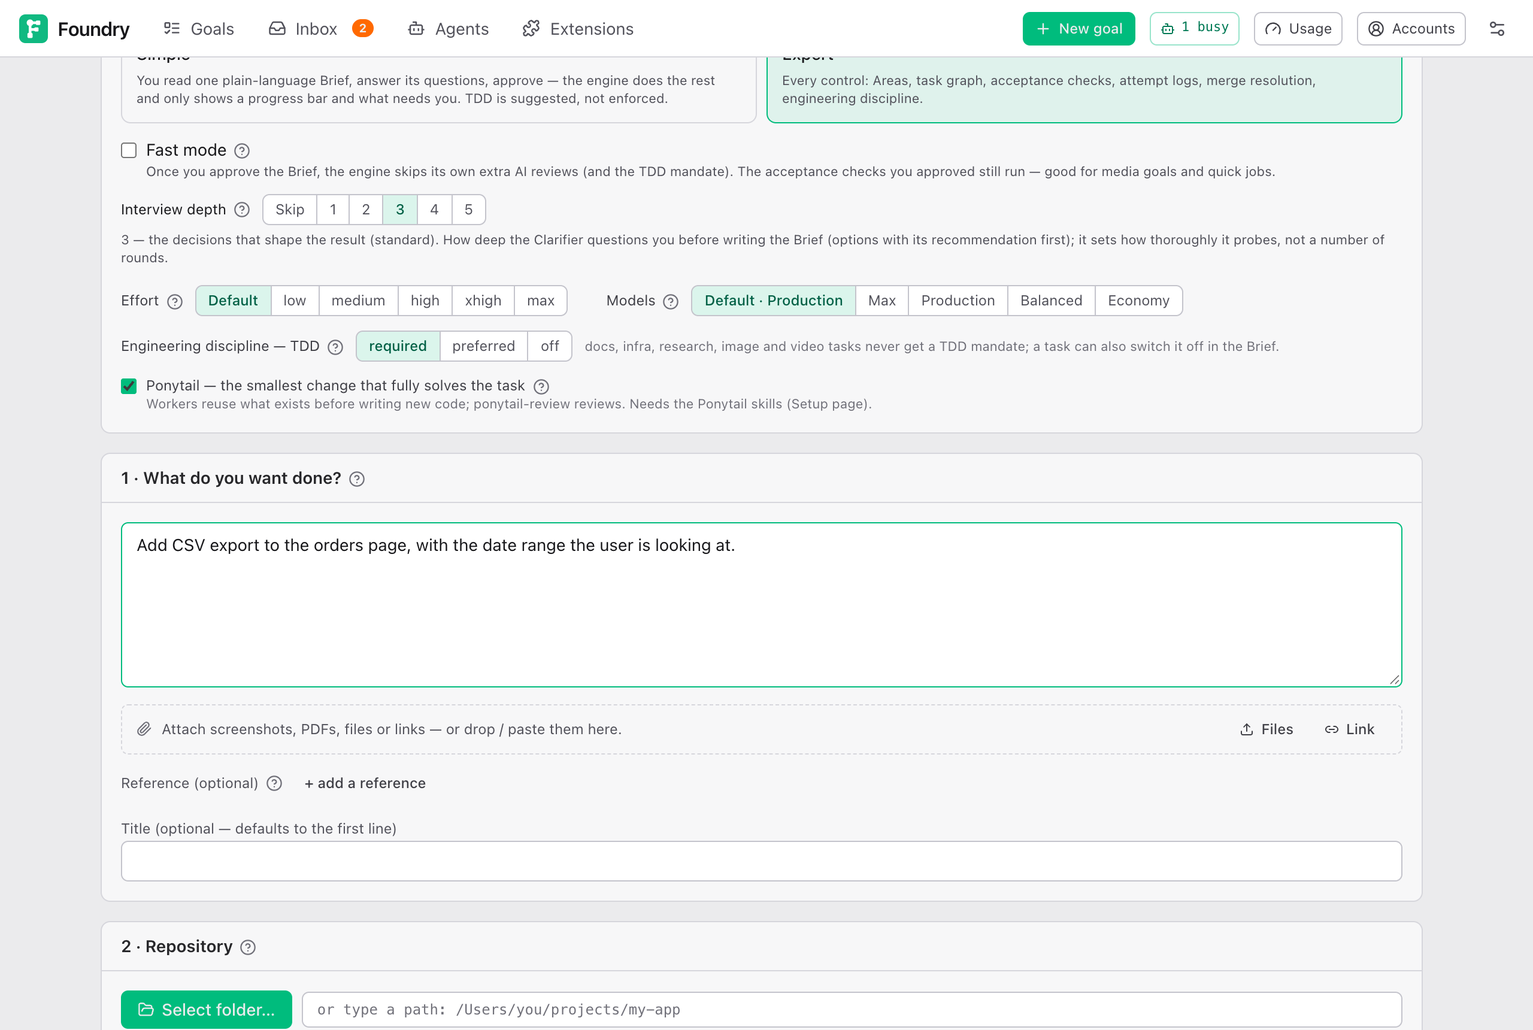
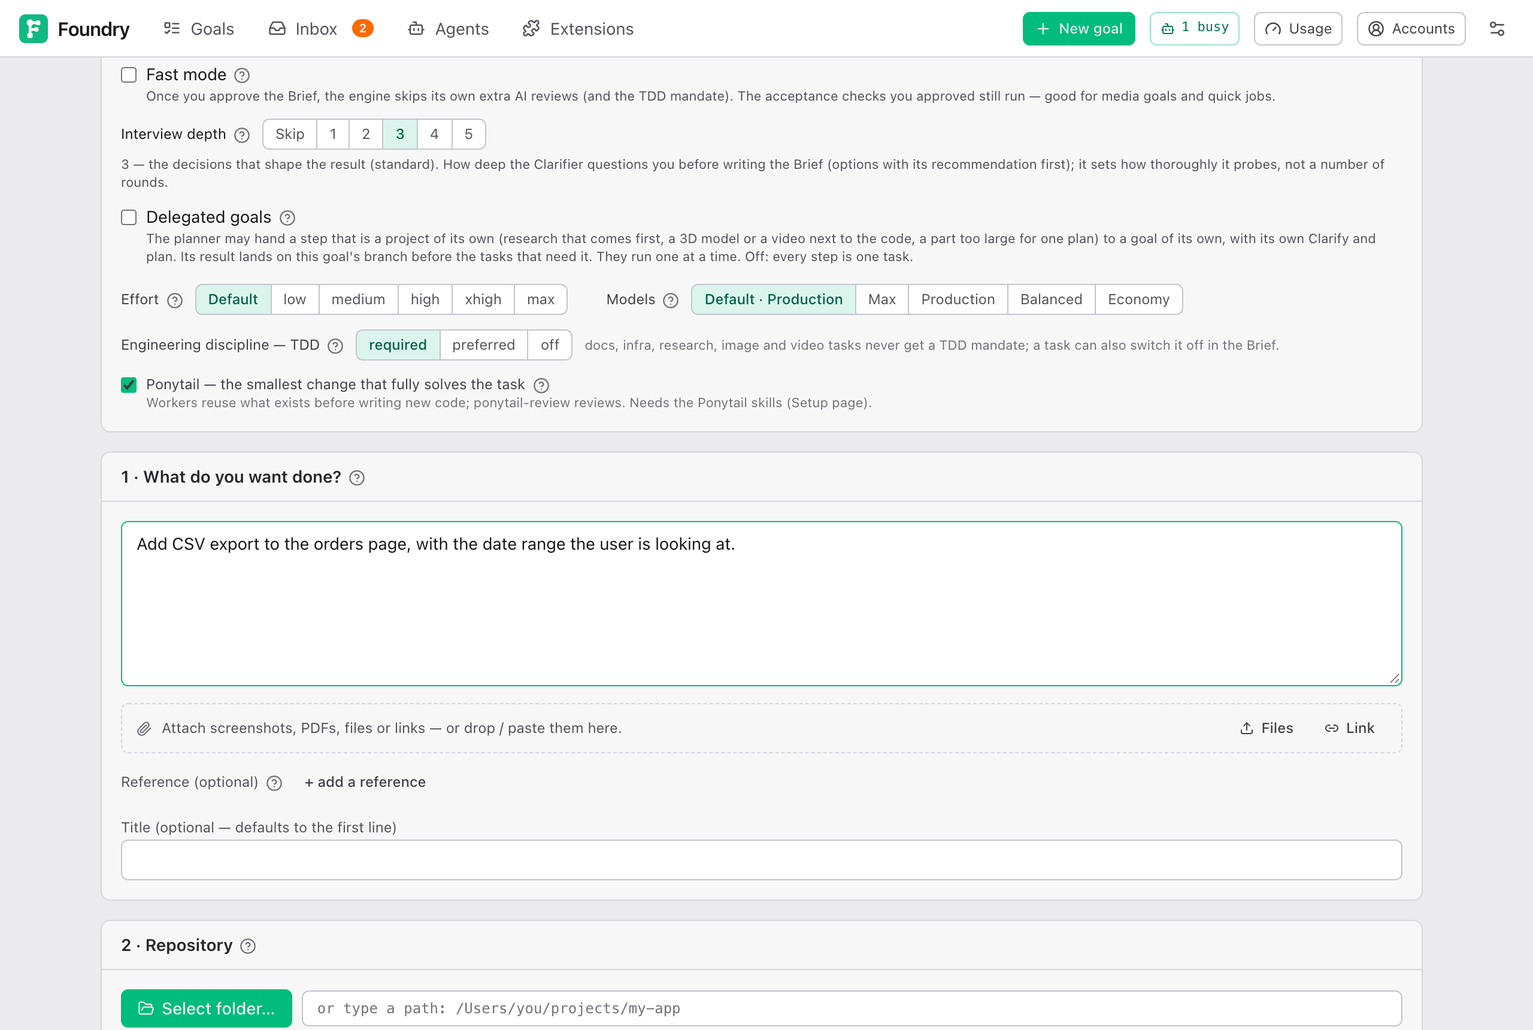
docs: Delegated goals in ADR-0034, the glossary, the guides and the architecture notes
Record why a step that is a project of its own becomes a Delegated goal rather
than a nested task tree, and what that means for landing, waiting, failure and
cost; define Delegated goal in the glossary; describe the two New goal
switches, the goal task's card and the folded goals list in the user guide (English
and 中文) and the planner's goal kind in the Brief page; add the delegation
flow to the architecture notes and re-capture the New goal screenshot.

diff --git a/docs/develop/adr/0034-delegated-goals.md b/docs/develop/adr/0034-delegated-goals.md
@@ -1,0 +1,64 @@
+# ADR-0034: A step that is a project of its own is a Delegated goal, one level deep, landing as one commit
+
+**Status:** accepted · 2026-10-18 · amends ADR-0028
+
+## Context
+
+A goal that spans crafts — research first, a 3D model and a video next to the code of a site — gets one Brief and one
+plan. The planner cuts every craft into tasks of one session each, with the understanding and the Decisions of the whole
+goal diluted across them, and each craft comes out shallow. Opening one goal per craft gives each the Clarify it
+deserves, but the person then sequences the goals by hand and carries the results from one to the next; a Follow-up only
+chains finished goals.
+
+A nested task tree — tasks that have tasks — would mean a recursive data model, scheduler and UI, and a planner that plans
+at every level.
+
+## Decision
+
+- **Composition, not nesting.** A **Delegated goal** is an ordinary goal with one extra field, `delegatedFrom`, naming the
+  main goal and the task it does. The main goal's task points back (`delegatedGoalId`). Everything a goal has — page,
+  Clarify, Brief, tasks, reviews, milestones — a Delegated goal has.
+- **One level.** A Delegated goal never delegates: its `delegation.allow` is forced off, and a `goal` task in its Brief is
+  approved as a feature task.
+- **The planner decides, when allowed.** Two switches on the New goal form, both off by default, are kept on the goal
+  (`delegation`): *allow* offers the planner the task kind `goal` (the JSON schema handed to it carries the kind only
+  then; a kind written without permission is demoted at the Brief), *autoApprove* lets the engine approve the Delegated
+  goals' Briefs. The person sees the `goal` tasks on the Brief like any other and may change them.
+- **Start and base.** When its task's turn comes (one Delegated goal per main goal at a time), the engine creates the
+  Delegated goal with the task's spec as its prompt, the main goal's coding agent, models, discipline and view, the main
+  goal's branch as its base branch (nothing is fetched for it), what is left of the main goal's budget, local-only
+  delivery and no completion actions of its own. Its Clarify and planner read a `# Part of a larger goal` section: the
+  main goal's prompt, understanding and Decisions, and what the tasks before it delivered.
+- **Waiting.** A `goal` task reads `running` while its goal works. While the Delegated goal needs the person — an
+  interview question, a Brief to approve (or a blocking question on one the engine would approve), a milestone, an
+  Escalation — the main goal is `blocked` with a reason that says so, and goes back by itself once the Delegated goal no
+  longer needs anyone. Every event of a Delegated goal that changes this ticks the main goal.
+- **Landing.** A Delegated goal that ends `done` or `over_delivered` is squash-merged onto the main goal's branch under
+  the goal workspace's lock as the task's one Conventional Commit (conflicts go through Merge Attempts, as for a task
+  worktree), its git-excluded `artifacts/` copied over, and a summary of what it delivered — its understanding, tasks,
+  Decisions, review, what it left open, the files — is written on the task (`task.summary_set`). Every task now inherits
+  the goal's `artifacts/` when its worktree is made (cad tasks did already), so a page can use the images made for it.
+- **Upstream summaries.** A worker's prompt carries `# What the steps before this one delivered`: the summaries of the
+  tasks it depends on, or the commit a plain task landed as. A Delegated goal's Clarify gets the same for its task.
+- **Failure.** A Delegated goal that fails has its failed tasks (and what depends on them) restarted in place, with a hint
+  saying why, as often as the main task's attempt budget allows (`task.delegation_restarted` counts); then, and when the
+  Delegated goal was cancelled or deleted, the main task escalates (`retries_exhausted`, kind `delegation`) and the main
+  goal is blocked: retry runs the failed tasks again, skip moves on. Restarting the main task from the task view starts a
+  fresh Delegated goal; the old one stays as a goal of its own.
+- **Cost.** A Delegated goal's `goal.cost_added` is mirrored to the main goal, so the main goal's budget covers both and
+  an overrun escalates there.
+
+## Consequences
+
+- Each craft gets its own interview, Brief and plan, and still lands in one branch, one delivery, with the main goal's
+  Decisions honoured; the person never sequences goals by hand.
+- A Delegated goal's branch is based on a moving branch: landing may conflict with what other tasks landed meanwhile;
+  Merge Attempts resolve it, and the person is told to merge the main branch into the Delegated goal's folder by hand when
+  they give up (there is no task worktree to resolve in).
+- A main goal with a Delegated goal keeps every other task in a worktree of its own, so the landing never lands onto a
+  task's uncommitted work in the goal folder; a task already working there is waited for.
+- The goals list folds Delegated goals under their main goal; a Delegated goal whose main goal was deleted stays listed
+  on its own, saying whose it was.
+- Not done here: Delegated goals running in parallel (the `dependsOn` edges allow it later), a per-step budget estimate by
+  the planner (the Delegated goal gets what is left), and a model-written summary (the summary is assembled from the
+  goal's records).

diff --git a/CONTEXT.md b/CONTEXT.md
@@ -24,7 +24,11 @@ The next segment of the same Attempt: its session is resumed by the same Coding 
 
 **Follow-up**
 A Goal that continues an earlier, finished Goal of the same repository: B *follows* A, and A is *followed by* B; chains are allowed (A → B → C). A Follow-up is given what A asked for, what was understood and decided, and how it ended, as background for its Clarify; that background is copied when the Follow-up is created, so it survives A being deleted. It starts from the base branch when A's work is already there, otherwise from A's Goal branch — then A's changes travel in B's Delivery. The form prefills the earlier coding agent, preset choice and any explicit all-role Codex model override. A Follow-up is a new Goal: its creation captures the then-current preset tables, not the earlier Goal’s frozen table. A Goal can also be marked as a Follow-up afterwards, which records the relationship and nothing else.
-_Avoid_: continuation (a resumed session inside an Attempt), child goal, sub-goal
+_Avoid_: continuation (a resumed session inside an Attempt), child goal, sub-goal (a step done by a goal of its own while the Goal runs is a Delegated goal)
+
+**Delegated goal**
+A Goal that does one Task of another Goal — the *main goal* — because that step is a project of its own: research that must come first, a craft next to the code (a 3D model, a video, a set of images), a part too large for one plan. The main goal's Brief may contain Tasks of kind *goal* only when the user allowed delegation when creating it; the planner decides which steps those are, and the user sees them on the Brief like any Task. When such a Task's turn comes, Foundry creates the Delegated goal (the Task's spec is its prompt, its coding agent, models and discipline the main goal's) on the main goal's branch, runs its Clarify and plan — its Brief approved by the engine when the user asked for that, else by the user — and, once it is finished, lands its branch on the main goal's branch as that Task's one commit, its Artifacts with it, and writes a summary of what it delivered for the Tasks that depend on it. A Delegated goal is a Goal in every other way: its own page, tasks, reviews and milestones; but it never delegates again (one level), it has no Delivery of its own (the main goal delivers), and what it costs counts on the main goal. Delegated goals of one main goal run one at a time. While a Delegated goal needs the person (a question, its Brief, a milestone, an Escalation), the main goal waits as *blocked* and goes on by itself afterwards; a Delegated goal that failed has its failed Tasks restarted, as often as the Task's attempt budget allows, before the main goal asks the person. Deleting the main goal leaves the Delegated goal as a goal of its own.
+_Avoid_: sub-goal, child goal, nested goal (a Delegated goal is not nested: it is a Goal that reports back), Follow-up (a Goal that continues a finished one)
 
 **Check**
 A decidable acceptance item. Every Check belongs to a *tier*:
@@ -213,7 +217,7 @@ A user-level Skill that has the same name as a Skill provided by a plugin. Both 
 A Skill a Role is told to follow for a kind of work — *must* or *prefer* — because the engine follows Matt Pocock's engineering workflow: `tdd` for features and refactors, `diagnosing-bugs` for bugs, `code-review` for the Goal Reviewer. Claude invocation telemetry records which Skills a session invoked; a missing mandated invocation is a note for the next Attempt, never a failure on its own. Codex reads native skill instructions without invocation telemetry, so compliance is assessed from the work and tests rather than a missing event. The Merger follows built-in conflict-resolution instructions; it does not require an external merge skill.
 
 **Task Kind**
-The nature of a Task — feature, bug, refactor, research or chore — set in the Brief. It selects the Workflow Skills the Worker is asked to follow.
+The nature of a Task — feature, bug, refactor, research or chore — set in the Brief. It selects the Workflow Skills the Worker is asked to follow. The kind *goal* is different: no Worker runs it; a Delegated goal does the step.
 
 **Scenario**
 The area a Task works in — frontend, backend, fullstack, data, mobile, infra, docs, research, image, video, cad or general — set in the Brief. A Goal's scenario is the one most of its Tasks share. Scenario-bound Skills (the Design Pack, presentation skills…) are shown to a session only when the scenario matches.

diff --git a/docs/develop/architecture.md b/docs/develop/architecture.md
@@ -167,6 +167,8 @@ An **Attempt** (`runAttempt`, `attempt-loop.ts`) goes through Plan → Act → O
 
 **Milestones** (`checkpoint.ts`, `feedback.ts`): at a checkpoint the human continues or writes feedback. `classifyFeedback` runs the triage session, and `applyFeedback` applies the confirmed plan as a hint, fix tasks or a Decision.
 
+**Delegated goals** (`delegation.ts`, [ADR-0034](adr/0034-delegated-goals.md)): a task of kind `goal` is done by a goal of its own. `startDelegations` (from `schedule`, one Delegated goal per main goal at a time) creates it with `Engine.createGoal` — `delegatedFrom` set, the task's spec as its prompt, the main goal's branch as its base — and the task reads `running`. `settleDelegations` (every pass, and from `runTick` while the main goal is `blocked`) lands a finished one (`landDelegation`: a squash of its branch onto the goal branch under the goal workspace's lock, conflicts through Merge Attempts, its `artifacts/` copied over, `task.summary_set` with what it delivered), restarts a failed one's failed tasks within the task's attempt budget (`task.delegation_restarted`) or escalates (`retries_exhausted`, kind `delegation`), and blocks the main goal while the Delegated goal needs the person (`delegationNeedsHuman`), unblocking it by itself afterwards. `autoApproveDelegated` (from `runTick`) approves its Brief when the main goal allows it. The Engine's store subscription ticks the main goal on the Delegated goal's events and mirrors its `goal.cost_added`. `renderUpstream` gives a worker the summaries of the tasks it depends on; `delegationContext` gives a Delegated goal's Clarify and planner the main goal's prompt, Decisions and upstream summaries. Every task worktree now inherits the goal's `artifacts/` (`ensureTaskWorkspace`).
+
 ### 5. Goal review: `goal_review`
 
 `runGoalReview` (`goal-review.ts`) re-runs every goal-level command Check and the Self-check on the merged tree, plus task-level Stretch command checks. If the goal has reviewer checks, or `alwaysReviewTasks` is on outside `fast` pace, the **Goal reviewer** judges the whole diff against `baseBranch`. Diffs longer than 1500 lines are written to a file under the internal workspace instead of being pasted in. If all Must checks pass, `runDocsGeneration` (`docs-generate.ts`) runs the Documenter and commits one `docs:` commit, and the goal moves to `done`, or `over_delivered` if every Stretch check passed too. A failing Must check creates fix tasks, bounded by `maxFixCycles` (`fix-tasks.ts`), and sends the goal back to `running`. When the fix cycles are spent, it escalates.

diff --git a/docs/guide/while-it-runs.zh.md b/docs/guide/while-it-runs.zh.md
@@ -88,6 +88,14 @@ goal 标题栏里的 **Simple | Expert** 用来切换视图，两种视图下它
 
 每个状态和消息是什么意思，以及哪些不需要你做什么，见 [Foundry 什么时候需要你](./when-foundry-needs-you.zh.md#任务状态)。
 
+### Delegated goals
+
+kind 是 **goal** 的任务不由 worker 来做：由它自己的一个*委派 goal*来做（见 New goal 表单上的 [Delegated goals](./your-first-goal.zh.md#delegated-goals)）。它的卡片是虚线边框，带一个 **delegated goal** 标签；那个 goal 存在之后，卡片上显示它的状态、它的任务完成了几个、它在等你时显示 **needs you**，以及通往它页面的 **Open goal →**。打开这个任务，会看到 **Done by a delegated goal** 和同样的链接；那个 goal 落地之后还会看到 **what it delivered**：它要做什么、它的任务、在那里做的决定、它的审查、它留下的未决事项，以及它放在 `artifacts/` 下的文件。依赖它的任务也会读到这些。
+
+委派 goal 需要你的时候——访谈问题、要批准的 Brief、milestone、Inbox 事项——这个 goal 显示 **blocked**，原因写着 *waiting for the delegated goal …*；在委派 goal 里（它的页面或 Inbox）回应之后，这个 goal 自己继续。委派 goal 失败时，它失败的任务会重新运行，次数以该任务允许的尝试次数为限，并附上原因说明；之后这个 goal 的任务上会出现一条 Inbox 事项，提供 **Retry**（它失败的任务带着你的提示再跑一次）或 **Skip**。对一个 goal 任务点 **Restart from here** 会新开一个委派 goal；旧的那个作为独立的 goal 留着。
+
+goals 列表把委派 goal 折叠在它的主 goal 下面：主 goal 下的一行 **▸ 2 delegated goals** 可以展开它们，缩进显示。委派 goal 自己的页面在标题下写着 **Delegated from: …**（链接到主 goal 的那个任务），主 goal 的页面列出它的 **Delegated goals**。如果主 goal 被删除，委派 goal 会独立留在列表里，并写明它曾属于谁。
+
 ### 任务内部
 
 ![全屏打开的任务：它的 spec、通过的那次尝试及其花费和轮数，以及会话的实时日志——读代码、写文件、跑测试](images/task-drawer.png)

diff --git a/docs/guide/while-it-runs.md b/docs/guide/while-it-runs.md
@@ -88,6 +88,14 @@ A task moves from **pending** (waiting for other tasks) to **ready**, **running*
 
 What each state and message means, and which ones need nothing from you, is in [When Foundry needs you](./when-foundry-needs-you.md#task-states).
 
+### Delegated goals
+
+A task of kind **goal** is not done by a worker: a *delegated goal* of its own does it (see [Delegated goals](./your-first-goal.md#delegated-goals) on the New goal form). Its card has a dashed border and a **delegated goal** chip, and once that goal exists it shows the goal's state, how many of its tasks are done, **needs you** when it waits for you, and **Open goal →** to its page. Opened, the task says **Done by a delegated goal**, with the same link, and once the goal has landed, **what it delivered**: what it set out to do, its tasks, the decisions made there, its review, what it left open and the files it put under `artifacts/`. The tasks that depend on it read that too.
+
+While the delegated goal needs you — an interview question, a Brief to approve, a milestone, an Inbox item — this goal shows **blocked** with the reason *waiting for the delegated goal …*; answer in the delegated goal (its page, or the Inbox) and this goal goes on by itself. When the delegated goal fails, its failed tasks are run again, as often as the task's attempts allow, with a note on why; then an Inbox item on this goal's task offers **Retry** (its failed tasks run again, with your hint) or **Skip**. **Restart from here** on a goal task starts a fresh delegated goal; the old one stays as a goal of its own.
+
+The goals list folds delegated goals under their main goal: a line **▸ 2 delegated goals** under the main goal opens them, indented. A delegated goal's own page says **Delegated from: …** under its title (a link to the main goal's task), and the main goal's page lists its **Delegated goals**. If the main goal is deleted, the delegated goal stays in the list on its own and says whose it was.
+
 ### Inside a task
 
 ![A task opened full screen: its spec, the attempt that passed with its cost and turns, and the live log of the session — reading the code, writing the files, running the tests](images/task-drawer.png)

diff --git a/docs/guide/your-first-goal.md b/docs/guide/your-first-goal.md
@@ -108,6 +108,12 @@ How deep Foundry questions you before it writes the Brief: **Skip**, then **1** 
 
 Deeper interviews take more of your time and cost a little more. Settings can change this default (see [Settings explained](./settings.md#new-goal-defaults)). More in [Answering the interview](./answering-the-interview.md).
 
+### Delegated goals
+
+Two switches, both off by default. Tick **Delegated goals** and the planner may hand a step that is a project of its own — research that must come first, a 3D model or a video next to the code, a part too large for one plan — to a goal of its own: a *delegated goal* with its own Clarify, Brief and plan. It starts from this goal's branch and lands its result back on it, as that step's commit, before the tasks that need it start; the tasks after it are told what it delivered. Such steps appear on the Brief as tasks of kind **goal**, and you can change them like any other task. Delegated goals run one at a time, never delegate again, and what they cost counts on this goal.
+
+Tick **Approve delegated goals' Briefs for me** and their Briefs are approved as soon as they are written, unless a question is left that only you can answer. Off, this goal pauses until you approve each delegated goal's Brief yourself. Either way, while a delegated goal needs you — a question, a milestone, an Inbox item — this goal waits as **blocked** and goes on by itself afterwards. What you see while they run is in [Delegated goals](./while-it-runs.md#delegated-goals).
+
 ### Effort
 
 How hard sessions of this goal think. An explicit value overrides every role. For Codex, **Default** uses the selected preset's role efforts; **none**, **minimal** and **ultra** are also available when supported by the chosen models. The form starts with the effort configured in Settings; selecting **Default** explicitly restores the Codex role settings. A known incompatible model/effort combination must be corrected before creating the goal.

diff --git a/docs/guide/your-first-goal.zh.md b/docs/guide/your-first-goal.zh.md
@@ -110,6 +110,12 @@ Foundry 写 Brief 之前问你问得多深：**Skip**，然后是 **1** 到 **5*
 
 问得越深，花你的时间越多，费用也略高。这个默认值可以在 Settings 里改（见 [设置说明](./settings.zh.md#new-goal-defaults)）。更多内容见 [回答访谈](./answering-the-interview.zh.md)。
 
+### Delegated goals
+
+两个开关，默认都关。勾上 **Delegated goals**，planner 就可以把一个本身就是一个项目的步骤——必须先做的调研、代码旁边的 3D 模型或视频、大到一份计划装不下的部分——交给一个独立的 goal：一个*委派 goal*，有自己的 Clarify、Brief 和计划。它从这个 goal 的分支出发，完成后把结果作为那一步的提交落回这个分支，再让需要它的任务开始；之后的任务会被告知它交付了什么。这样的步骤在 Brief 上显示为 kind 是 **goal** 的任务，你可以像改其它任务一样改它们。委派 goal 一次只跑一个，自己不会再委派，花费记在这个 goal 上。
+
+勾上 **Approve delegated goals' Briefs for me**，它们的 Brief 写好就自动批准，除非留下了只有你能回答的问题。不勾，这个 goal 会停下来，等你亲自批准每个委派 goal 的 Brief。无论哪种，委派 goal 需要你的时候——一个问题、一个 milestone、一条 Inbox 事项——这个 goal 以 **blocked** 状态等待，之后自己继续。运行时你会看到什么，见 [Delegated goals](./while-it-runs.zh.md#delegated-goals)。
+
 ### Effort
 
 这个 goal 的会话思考得有多用力。明确选择一个值会覆盖所有角色。Codex 的 **Default** 使用预设中各角色的强度；当模型支持时，也可选择 **none**、**minimal** 或 **ultra**。表单初始填入 Settings 中配置的强度；主动选 **Default** 会恢复 Codex 角色设置。已知不兼容的模型与强度组合必须修正后才能创建任务。

diff --git a/docs/develop/adr/README.md b/docs/develop/adr/README.md
@@ -38,3 +38,4 @@ record is never rewritten when a later decision changes it; its status says what
 | [0031](0031-feature-milestones-with-scripts.md) | A milestone per feature, shown by a Playwright script its task writes | accepted · 2026-10-14 · amends ADR-0012 |
 | [0032](0032-ponytail-discipline-and-reverse-engineering.md) | Ponytail as a per-goal discipline, an audit at the end, and reverse engineering with REA | accepted · 2026-10-16 · amends ADR-0004 and ADR-0016 |
 | [0033](0033-cad-goals-with-text-to-cad.md) | CAD goals with text-to-cad, behind a Desktop apps & printers switch | accepted · 2026-10-16 · amends ADR-0008 and ADR-0016 |
+| [0034](0034-delegated-goals.md) | A step that is a project of its own is a Delegated goal, one level deep, landing as one commit | accepted · 2026-10-18 · amends ADR-0028 |

diff --git a/docs/guide/approving-the-brief.zh.md b/docs/guide/approving-the-brief.zh.md
@@ -131,6 +131,7 @@ Foundry 用自己的话说它理解了什么。先读这个：如果这里错了
 | **refactor** | 调整结构，不改变行为。 |
 | **research** | 查清楚某件事。 |
 | **chore** | 环境搭建、依赖、日常维护。 |
+| **goal** | 由一个独立的委派 goal 来做的步骤，它有自己的 Clarify 和计划。只有 goal 允许委派时 planner 才会用它；见 [Delegated goals](./your-first-goal.zh.md#delegated-goals)。 |
 
 类型决定执行者遵循哪种工作方法（比如做功能时先写测试）。
 

diff --git a/docs/guide/approving-the-brief.md b/docs/guide/approving-the-brief.md
@@ -131,6 +131,7 @@ Inside a task you can change:
 | **refactor** | Restructuring without changing behaviour. |
 | **research** | Finding something out. |
 | **chore** | Setup, dependencies, housekeeping. |
+| **goal** | A step done by a delegated goal of its own, with its own Clarify and plan. The planner uses it only when the goal allows delegation; see [Delegated goals](./your-first-goal.md#delegated-goals). |
 
 The kind decides which working method the worker follows (for example tests first for features).
 
